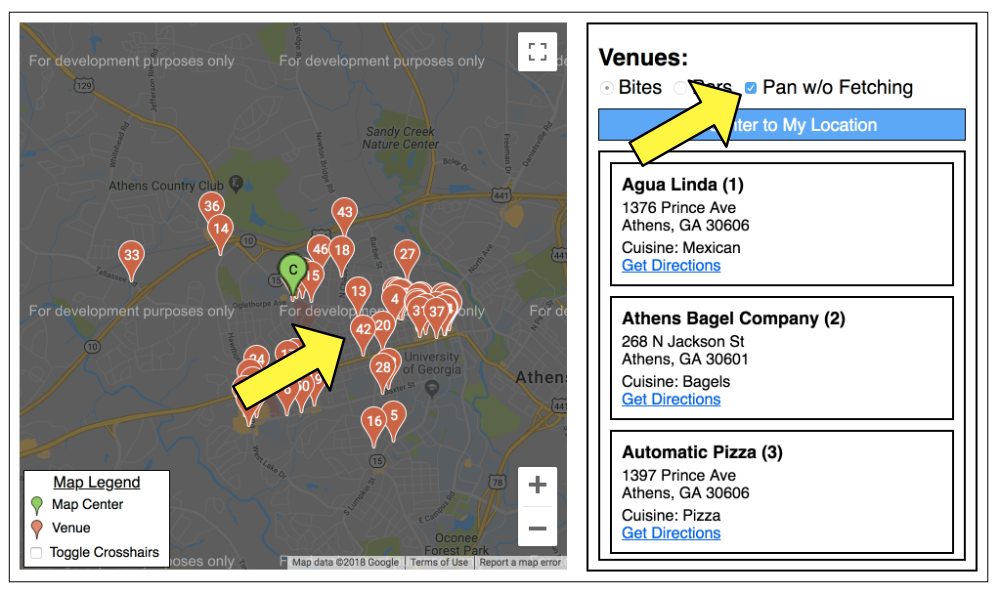
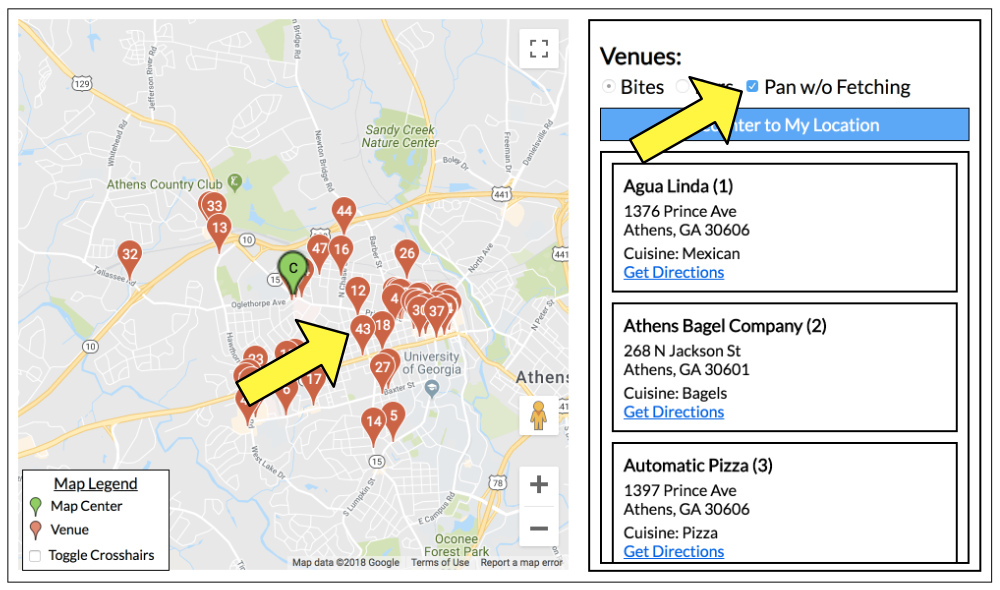
updated about/readme page images

diff --git a/src/components/About.js b/src/components/About.js
@@ -59,9 +59,9 @@ const About = (props) => {
           <div className="about_article_title">Pan Without Fetching</div>
           <hr/>
           <p>Checking "Pan w/o Fetching" is a convenient feature which allows the User to Pan (and Zoom In/Out) while preserving the currently displayed Venues.</p>
-          <p>Suppose you want to explore the currently loaded set of Venues in greater detail - in this scenario, you want to explore Marker 42.</p>
+          <p>Suppose you want to explore the currently loaded set of Venues in greater detail - in this scenario, you want to explore Marker 43.</p>
           <img className="about_img" src={img05_01} alt="pan without fetching is a convenience feature"/>
-          <p>Here, we panned, zoomed and clicked Marker 42.</p>
+          <p>Here, we panned, zoomed and clicked Marker 43.</p>
           <img className="about_img" src={img05_02} alt="click pan with fetching to prevent new venue markers from loading when moving the map"/>
         </article>
       </section>
@@ -80,13 +80,13 @@ const About = (props) => {
         <article className="about_article">
           <div className="about_article_title">Pan to Desired Location:</div>
           <hr/>
-          <p>You can pan any where on the map.  Try exploring a city you plan be visit, or exploring a city in a foreign country.</p>
+          <p>You can pan any where on the map.  Try exploring a city you plan to visit, or exploring a city in a foreign country.</p>
           <img className="about_img" src={img07} alt="pan to desired location on map"/>
         </article>
         <article className="about_article">
           <div className="about_article_title">Load New Venues:</div>
           <hr/>
-          <p>Un-check "Pan w/o Fetch".  Grab Map and give it a nudge.&nbsp;&nbsp;New Venues display in the new Location.</p>
+          <p>Un-check "Pan w/o Fetching".  Grab Map and give it a nudge.&nbsp;&nbsp;New Venues display in the new Location.</p>
           <img className="about_img" src={img08} alt="uncheck pan without fetching to display venues in the new location"/>
         </article>
       </section>
